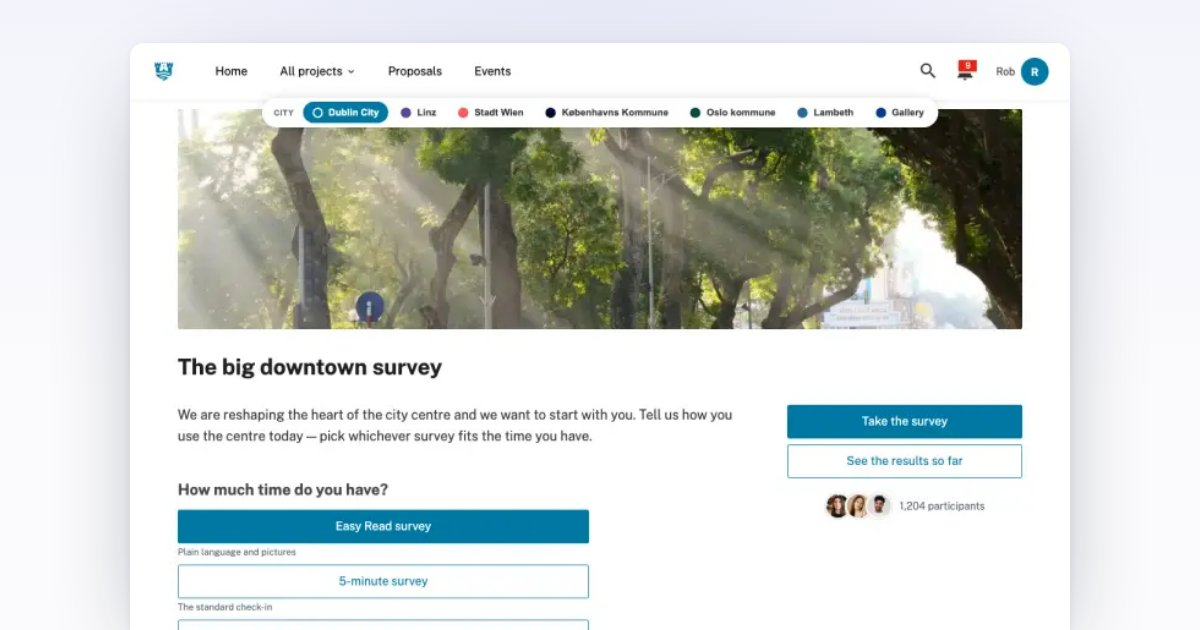
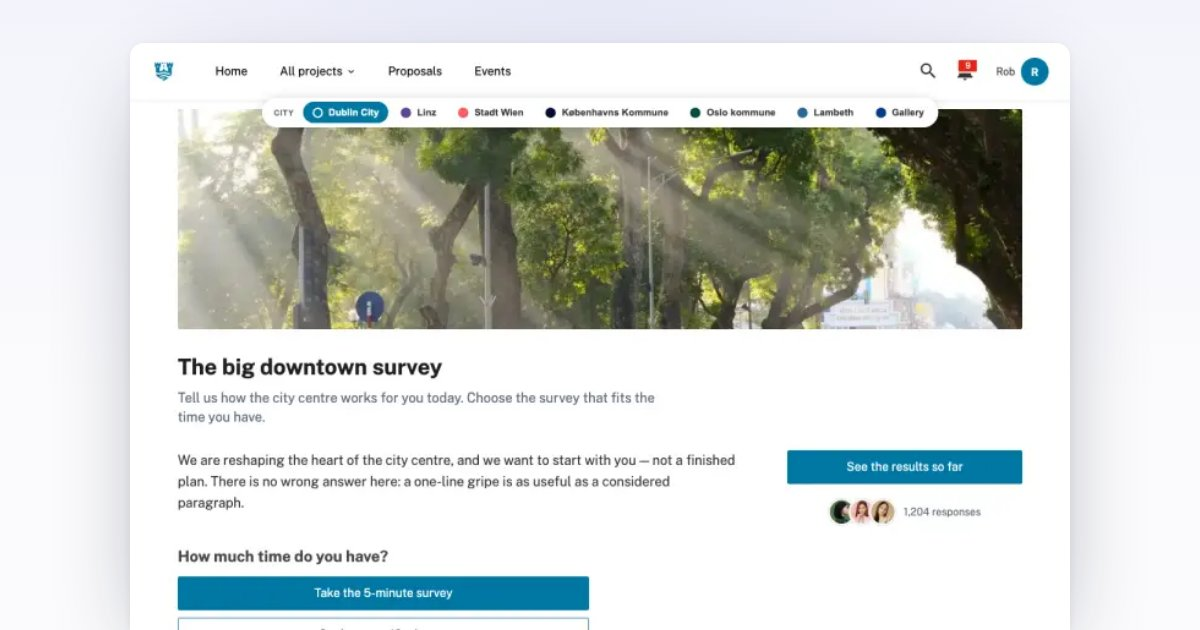
city-explorations: senior UX/content pass on the six city pages
- Remove the subtitles under Dublin's time-tier buttons; tighten the picker to
  one clear primary (Take the 5-minute survey) + Go deeper / Easy Read.
- Rebuild Oslo: lead subtitle + spacing fix so the timeline no longer collides
  with the title; drop the duplicate survey CTA so the page has one clear action;
  fix the phase body that wrongly showed "Mobility check-in" on every survey phase.
- Lambeth: fix missing gap between the survey card and the participate bar (only
  flush the partbar→phases seam, keep 32px rhythm everywhere else).
- Add a lead subtitle to every city for stronger header hierarchy.
- Rewrite intro/desc/accordion/CTA copy per city for distinct municipal voices,
  active-voice CTAs, close-the-loop framing, and no templated repetition.
- About box now honours each city's count label (responses / contributions /
  streets suggested) instead of always saying "participants".
- Add skills/participation-design (UX + content + participation-expert critique
  lens); opt-in, won't auto-load.

Changed region(s): [[0.1233, 0.6032, 0.6167, 0.9952], [0.6475, 0.6333, 0.8633, 0.8444]]

diff --git a/parallel-participation/prototypes/city-explorations/index.html b/parallel-participation/prototypes/city-explorations/index.html
@@ -46,15 +46,18 @@
     /* ── LAYOUT ENGINE — each city composes the same modules in a different order to
        showcase the Content Builder's freedom to move blocks around. A layout is an
        array of rows; a row is one full-width module or a multi-column grid. ── */
-    /* Each top-level module is its own row in the page stack; bleed bands sit flush. */
+    /* Each top-level module is its own row in the page stack. The partbar and the
+       phases band are visually one unit, so flush that seam only — every other
+       adjacency keeps the 32px rhythm (incl. a survey card sitting above the partbar). */
     .pv-page > * + * { margin-top: 32px; }
-    .pv-page > .gv-partbar, .pv-page > .gv-methodband { margin-top: 0; }
+    .pv-page > .gv-partbar + .gv-methodband { margin-top: 0; }
     .pv-block { padding: 0; }
     .pv-row2 { display: grid; grid-template-columns: minmax(0,1fr) 320px; gap: 24px 44px; align-items: start; }
     .pv-row-eq { display: grid; grid-template-columns: repeat(var(--n,2), minmax(0,1fr)); gap: 24px 44px; align-items: start; }
     .pv-col { display: flex; flex-direction: column; gap: 22px; min-width: 0; }
     .pv-aside { display: flex; flex-direction: column; gap: 18px; }
-    .pv-h1 { margin: 0 0 4px; }
+    .pv-h1 { margin: 0; }
+    .pv-sub { margin: 10px 0 0; font-size: 18px; line-height: 1.45; color: var(--gv-text-secondary); max-width: 60ch; }
     .pv-intro { margin: 0; }
     .pv-about-wide { max-width: 560px; }
     /* 3-column survey-card grid below the events calendar */
@@ -344,16 +347,16 @@
   // Reusable survey records (the Extra-surveys widget links to these).
   const SURVEYS = {
     mobility: { name: 'Mobility check-in', range: '1 – 15 Jun 2026 · Ongoing', status: 'Ongoing',
-      desc: 'A 2-minute survey on how you move around the city this month — your answers feed the mobility plan.',
+      desc: 'How do you move around the city this month? Your answers feed straight into the mobility plan.',
       cta: 'Take the survey', minutes: '2 min', questions: 8, responses: 248, closesIn: 'Closes in 5 days', progress: 64 },
     market: { name: 'Market-day satisfaction', range: '10 – 24 Jun 2026', status: 'Open',
-      desc: 'Tell us how the Saturday market works for you — stalls, space and getting there.',
+      desc: 'Tell us how the Saturday market works for you — the stalls, the space, and getting there.',
       cta: 'Share your view', minutes: '3 min', questions: 6, responses: 91, closesIn: 'Closes in 9 days', progress: 38 },
     access: { name: 'Getting around survey', range: 'Open now · No end date', status: 'Open',
-      desc: 'A few easy questions about how you travel. Your answers help us make the area work for everyone.',
+      desc: 'A few plain questions about how you travel, so the streets work better for everyone.',
       cta: 'Start the survey', minutes: '4 min', questions: 7, responses: 162, closesIn: 'Closes in 12 days', progress: 22 },
     school: { name: 'School-run safety check', range: '5 – 19 Jun 2026', status: 'Open',
-      desc: 'Help us understand the morning school journey so we can make crossings and streets safer.',
+      desc: 'Tell us about the morning journey to school, so we can make crossings and streets safer.',
       cta: 'Take the survey', minutes: '3 min', questions: 9, responses: 134, closesIn: 'Closes in 4 days', progress: 71 }
   };
 
@@ -361,21 +364,22 @@
     {
       key: 'dublin', theme: 1, city: 'Dublin City',
       title: 'The big downtown survey',
+      subtitle: 'Tell us how the city centre works for you today. Choose the survey that fits the time you have.',
       banner: 'avenue',
-      config: 'Time-tier picker · three surveys as inline single buttons',
-      intro: 'We are reshaping the heart of the city centre and we want to start with you. Tell us how you use the centre today — pick whichever survey fits the time you have.',
-      desc: '<p>Short on time? The survey comes in a few depths, plus an Easy Read version with short sentences and pictures so everyone can take part. Whichever you pick, your answers go straight to the project team and shape the proposals we bring back later in the year.</p>',
-      accordion: [['How long does it take?', 'Anything from a minute to ten — pick the depth that suits you. You can skip any question and come back later; your answers save as you go.'], ['What happens to my answers?', 'They are anonymised and grouped into themes. We publish the headline findings before the next phase opens.']],
+      config: 'Time-tier picker · one survey offered at three depths as inline buttons',
+      intro: 'We are reshaping the heart of the city centre, and we want to start with you — not a finished plan. There is no wrong answer here: a one-line gripe is as useful as a considered paragraph.',
+      desc: '<p>Whichever depth you pick, every answer is read and grouped into themes by the project team. We publish the headline findings here before the next phase opens, so you can see how what you said shaped the proposals.</p>',
+      accordion: [['Can I change my answers?', 'Yes. Your answers save as you go and you can come back to finish or edit until the survey closes on 30 June.'], ['What happens to my answers?', 'They are anonymised and grouped into themes. We publish the headline findings here before the proposals phase opens.']],
       phases: [
         { name: 'City-centre survey', method: 'survey', dates: 'Jun 1 – Jun 30, 2026', status: 'current', description: 'The opening phase: a short survey on how the centre works for you today.' },
         { name: 'What we heard', method: 'information', dates: 'Jul 1 – Jul 14, 2026', status: 'upcoming', description: 'We share back the themes from your answers and what they mean for the plan.' },
         { name: 'Shape the proposals', method: 'ideation', dates: 'Jul 15 – Aug 15, 2026', status: 'upcoming', description: 'Add and react to ideas for the changes you want to see in the centre.' }
       ],
-      about: { mode: 'single', primary: 'Take the survey', secondary: 'See the results so far', participants: true, count: '1,204', label: 'responses' },
+      about: { mode: 'single', primary: 'See the results so far', secondary: null, participants: true, count: '1,204', label: 'responses' },
       surveys: { layout: 'buttons', heading: 'How much time do you have?', buttons: [
-        { label: 'Easy Read survey', style: 'primary', note: 'Plain language and pictures' },
-        { label: '5-minute survey', style: 'secondary', note: 'The standard check-in' },
-        { label: '10-minute deep dive', style: 'secondary', note: 'For the full picture' }
+        { label: 'Take the 5-minute survey', style: 'primary' },
+        { label: 'Go deeper — 10 minutes', style: 'secondary' },
+        { label: 'Easy Read version', style: 'secondary' }
       ] },
       layout: ['banner', 'title', { row: [['intro', 'surveys', 'desc'], ['about']], tpl: 'main-aside' }, 'partbar', 'timeline', 'events'],
       events: [['Jun', '18', 'Drop-in: help with the survey', '18 Jun · 17:30 – 19:00', 'Central Library', '26', 'oldtown']]
@@ -383,29 +387,31 @@
     {
       key: 'linz', theme: 0, city: 'Linz',
       title: 'Reimagine the riverside',
+      subtitle: 'The old industrial riverfront is coming back to the city. Help decide what goes there.',
       banner: 'park-people',
-      config: 'Events module placed above the timeline · easy-read survey card',
-      intro: 'Help shape how we use the riverside over the next few years. We are collecting ideas right now — add yours below, then back the ones you like best.',
-      desc: '<p>The team reads every suggestion, groups similar ones, and the most-supported move to a community vote and into the final plan. Come and talk it through in person too — the meet-ups below run while the ideas phase is open.</p>',
-      accordion: [['How will my idea be used?', 'Every idea is read by the project team and grouped with similar suggestions. The most-supported ones move to the next phase.'], ['Who is running this project?', 'The City of Linz engagement team, together with the parks and mobility departments.']],
+      config: 'Events module lifted above the timeline · ideation feed + parallel survey',
+      intro: 'Nothing is drawn up yet — this is the ideas phase, and the widest range of voices now makes for a stronger shortlist later. Add your own idea, or back the ones your neighbours have already posted.',
+      desc: '<p>Every suggestion is read and grouped by theme; the most-supported move to a community vote and into the final plan. Prefer to talk it through in person? Come to one of the riverside meet-ups below — they run while the ideas phase is open.</p>',
+      accordion: [['How will my idea be used?', 'Every idea is read by the project team and grouped with similar ones. The most-supported move to the community vote in July.'], ['Who is running this project?', 'The City of Linz engagement team, with the parks and mobility departments.']],
       phases: [
         { name: 'Share your ideas', method: 'ideation', dates: 'May 20 – Jun 30, 2026', status: 'current', description: 'Residents share ideas for the riverside and react to each other’s suggestions.' },
         { name: 'Consolidation', method: 'information', dates: 'Jul 1 – Jul 14, 2026', status: 'upcoming', description: 'We group similar ideas and share how the shortlist was put together.' },
         { name: 'Community vote', method: 'voting', dates: 'Jul 15 – Aug 5, 2026', status: 'upcoming', description: 'Residents prioritise the shortlisted ideas with a budget of points.' }
       ],
-      about: { mode: 'dual', primary: 'Submit your idea', secondary: 'See the ideas', participants: true, count: '342', label: 'contributions' },
-      surveys: { layout: 'one', format: 'card', variant: 'easy', style: 'secondary', survey: 'mobility', heading: 'One more way to take part' },
+      about: { mode: 'dual', primary: 'Add your idea', secondary: 'See the 342 ideas', participants: true, count: '342', label: 'contributions' },
+      surveys: { layout: 'one', format: 'card', variant: 'easy', style: 'secondary', survey: 'mobility', heading: 'Rather answer a few questions?' },
       layout: ['banner', 'title', { row: [['intro', 'desc', 'surveys'], ['about']], tpl: 'main-aside' }, 'events', 'partbar', 'timeline'],
       events: [['Jun', '14', 'Riverside ideas walk', '14 Jun · 10:00 – 11:30', 'Donaupark', '41', 'workshop'], ['Jul', '02', 'Design workshop', '2 Jul · 18:00 – 20:00', 'Civic Hall', '57', 'community']]
     },
     {
       key: 'wien', theme: 2, city: 'Stadt Wien',
       title: 'Participatory budget 2026',
+      subtitle: '€500,000 for the district — and you decide where it goes. Three ways to take part are open at once.',
       banner: 'square',
-      config: 'Omnibox · 3 methods collapse to one button → opens a modal / bottom sheet',
-      intro: 'You decide where part of the district budget goes this year. Three ways to take part are open at once — vote on the shortlist, add a late idea, or have your say in the budget survey.',
-      desc: '<p>When more than two ways to participate are open together, the About box collapses them into a single clear call to action. Tapping it opens a modal — a bottom sheet on mobile — with each method as its own button.</p>',
-      accordion: [['How does the vote work?', 'You get a set of points to spread across the projects you most want funded. You can change your vote until the phase closes.'], ['How much is the budget?', '€500,000 for the district this year, split across the projects that get the most support.']],
+      config: 'Omnibox · three open methods collapse to one button → modal / bottom sheet',
+      intro: 'The shortlist was built from the proposals residents submitted this spring. Voting is the main event now, but ideas and the budget survey stay open alongside it — take part however suits you.',
+      desc: '<p>With three methods running together, listing every button would crowd the page, so the participation box collapses them behind one clear action. Tapping it opens a modal — a bottom sheet on mobile — with each way to take part as its own button.</p>',
+      accordion: [['How does the vote work?', 'You get points to spread across the projects you most want funded. You can change your vote until voting closes on 30 June.'], ['What if my idea did not make the shortlist?', 'You can still add a late idea — the team reviews them for the next budget round and replies in the project updates.']],
       phases: [
         { name: 'Collect proposals', method: 'ideation', dates: 'Mar 1 – May 1, 2026', status: 'past', description: 'Residents submitted projects for the district budget.' },
         { name: 'Vote on the shortlist', method: 'voting', dates: 'Jun 1 – Jun 30, 2026', status: 'current', description: 'Spend your points across the shortlisted projects for the district.' },
@@ -423,11 +429,12 @@
     {
       key: 'copenhagen', theme: 3, city: 'Københavns Kommune',
       title: 'What we heard: the city centre',
+      subtitle: '517 ideas, grouped into eight themes. Here is what you told us — and what happens next.',
       banner: 'oldtown',
-      config: 'Three-column survey-card row below the events calendar',
-      intro: 'Thank you to everyone who shared an idea. This phase shares back what we heard and how the ideas were grouped — and opens a few short follow-up surveys.',
-      desc: '<p>During consolidation we read every contribution, removed duplicates, and grouped the remaining ideas into themes. Below is how the process worked, when we are meeting in person, and the short surveys that are still open.</p>',
-      accordion: [['How were ideas grouped?', 'Ideas were clustered by theme and by where in the centre they sit. Near-identical ideas were merged, keeping the original authors credited.'], ['When can I vote?', 'Prioritisation opens next month. Followers of this project get a notification when voting starts.']],
+      config: 'Closing-the-loop page · three follow-up surveys below the events calendar',
+      intro: 'Thank you to everyone who took part. This is the part too many consultations skip: showing you what we did with what you said, before anyone decides anything.',
+      desc: '<p>We read every contribution, merged the near-identical ones — authors still credited — and clustered the rest into themes. Below is how that worked, where to meet the team in person, and the short follow-up surveys that are still open.</p>',
+      accordion: [['How were ideas grouped?', 'By theme, and by where in the centre they sit. Near-identical ideas were merged, keeping the original authors credited.'], ['When can I vote?', 'Prioritisation opens in July. Follow the project and you will get a notification the day voting starts.']],
       phases: [
         { name: 'Share your ideas', method: 'ideation', dates: 'Apr 1 – May 20, 2026', status: 'past', description: 'Residents shared ideas for the city centre.' },
         { name: 'What we heard', method: 'information', dates: 'Jun 1 – Jun 21, 2026', status: 'current', description: 'We share back the themes from your ideas and how the shortlist was built.' },
@@ -442,34 +449,36 @@
     {
       key: 'oslo', theme: 5, city: 'Oslo kommune',
       title: 'A safer school run',
+      subtitle: 'Written in plain words, with big text and one clear button — so every family can take part.',
       banner: 'street-trees',
-      config: 'Reordered page · timeline under the title, About box above the description',
-      intro: 'We want every child to get to school safely. This survey is written in plain words, with big text and one clear button — so everyone can take part.',
-      desc: '<p>Tell us about the morning journey to school: where it feels safe, where it does not, and what would help. Your answers shape crossings, speeds and the streets around our schools.</p>',
-      accordion: [['Who can answer?', 'Anyone who walks, cycles or drives the school run — parents, carers, children and neighbours.'], ['Do I need an account?', 'No. You can answer the survey without signing in. Signing in lets you follow the project for updates.']],
+      config: 'Reordered, accessible page · timeline under the title, single clear action',
+      intro: 'Tell us about the morning journey to school: where it feels safe, where it does not, and the one change that would help most. It takes a few minutes and you do not need an account.',
+      desc: '<p>Your answers go straight to the traffic and schools team and shape real decisions — where crossings go, how fast traffic moves, and which streets get calmed first. We share back what we heard in July, before anything is decided.</p>',
+      accordion: [['Who can answer?', 'Anyone who knows the school run — parents, carers, children, teachers and neighbours. Walk it, cycle it or drive it: we want to hear from you.'], ['Do I need an account?', 'No. You can answer without signing in. Signing in just lets you follow the project for updates.']],
       phases: [
         { name: 'School-run survey', method: 'survey', dates: 'Jun 5 – Jun 26, 2026', status: 'current', description: 'A short, plain-language survey about the morning journey to school.' },
         { name: 'What we heard', method: 'information', dates: 'Jul 1 – Jul 14, 2026', status: 'upcoming', description: 'We share back what we learned and the changes we are considering.' }
       ],
       about: { mode: 'single', primary: 'Take the survey', secondary: null, participants: true, count: '286', label: 'responses' },
-      surveys: { layout: 'one', format: 'card', variant: 'easy', style: 'primary', survey: 'school', heading: 'The survey, in plain words' },
-      layout: ['banner', 'title', 'timeline', 'about', 'intro', 'desc', 'surveys', 'events'],
+      surveys: { layout: 'none' },
+      layout: ['banner', 'title', 'timeline', 'about', 'intro', 'desc', 'events'],
       events: [['Jun', '11', 'School-gate listening session', '11 Jun · 08:15 – 09:15', 'Skole gate', '19', 'community']]
     },
     {
       key: 'lambeth', theme: 6, city: 'Lambeth',
       title: 'Quiet streets pilot',
+      subtitle: 'One question, one action: where would calmer streets make the biggest difference?',
       banner: 'harbour',
-      config: 'Action-first minimal page · About box on top, then text and one survey',
-      intro: 'We are trialling quieter, calmer streets in the neighbourhood. Add your idea for where it would make the biggest difference.',
-      desc: '<p>This is a light-touch project page: the action sits right at the top, with a short explanation and a single easy-read survey below — for when the page should stay quiet and the next step is obvious.</p>',
-      accordion: [['What is a quiet street?', 'A street where through-traffic is reduced so it is calmer and safer for people walking, cycling and playing.']],
+      config: 'Action-first minimal page · the action leads, everything else stays quiet',
+      intro: 'We are trialling quieter, calmer streets — less through-traffic, more room to walk, cycle and play. Tell us the street you would start with.',
+      desc: '<p>This is a deliberately light page: the action comes first, with a short explanation underneath. The most-supported streets go into the trial this summer, and we report back on what actually changed.</p>',
+      accordion: [['What is a quiet street?', 'A street where through-traffic is reduced, so it is calmer and safer for people walking, cycling and playing — local access stays.']],
       phases: [
         { name: 'Suggest a street', method: 'ideation', dates: 'Jun 1 – Jul 1, 2026', status: 'current', description: 'Add the street where a quiet-streets trial would make the biggest difference.' },
         { name: 'Trial', method: 'information', dates: 'Aug 2026', status: 'upcoming', description: 'We trial the most-supported streets and report back on what changed.' }
       ],
-      about: { mode: 'single', primary: 'Suggest a street', secondary: null, participants: false },
-      surveys: { layout: 'one', format: 'card', variant: 'easy', style: 'secondary', survey: 'access', heading: 'Or take the quick survey' },
+      about: { mode: 'single', primary: 'Suggest a street', secondary: null, participants: true, count: '128', label: 'streets suggested' },
+      surveys: { layout: 'one', format: 'card', variant: 'easy', style: 'secondary', survey: 'access', heading: 'Prefer a few questions instead?' },
       layout: ['banner', 'title', 'about', 'intro', 'desc', 'surveys', 'partbar', 'timeline'],
       events: []
     },
@@ -503,7 +512,7 @@
       if (a.secondary) actions += `<a class="gv-btn full primary-outlined" href="#"><span class="gv-btn__label">${a.secondary}</span></a>`;
     }
     const people = a.participants
-      ? `<div class="gv-participants pv-pbox__people"><span class="gv-avatars on-light" aria-hidden="true"><span class="av"></span><span class="av"></span><span class="av"></span></span><span class="gv-pcount">${a.count} participants</span></div>`
+      ? `<div class="gv-participants pv-pbox__people"><span class="gv-avatars on-light" aria-hidden="true"><span class="av"></span><span class="av"></span><span class="av"></span></span><span class="gv-pcount">${a.count} ${a.label || 'participants'}</span></div>`
       : '';
     let inner = (actions ? `<div class="pv-pbox__actions">${actions}</div>` : '') + people;
     if (!inner) inner = '<div class="pv-pbox__empty">No active methods</div>';
@@ -596,8 +605,8 @@
             <button class="gv-feedfilter__btn" type="button">Accepted <span class="gv-feedfilter__count">18</span></button></div></div>
         </aside></div>`;
     },
-    survey() {
-      return `<div class="pv-survintro"><h3 class="gv-title h3">${SURVEYS.mobility.name}</h3><p>${SURVEYS.mobility.questions} questions · about ${SURVEYS.mobility.minutes} to complete. Your answers are saved as you go and you can finish later.</p><a class="gv-btn primary" href="#"><span class="gv-btn__label">Start the survey</span></a></div>`;
+    survey(p) {
+      return `<div class="pv-survintro"><h3 class="gv-title h3">${p.name}</h3><p>${p.description} Your answers are saved as you go, so you can stop and finish later.</p><a class="gv-btn primary" href="#"><span class="gv-btn__label">Start the survey</span></a></div>`;
     },
     information() {
       const acc = (q, p) => `<details class="gv-acc__item"><summary class="gv-acc__head"><span class="gv-acc__q">${q}</span><span class="gv-acc__chev" data-gv-icon="chevron-right"></span></summary><div class="gv-acc__body"><p>${p}</p></div></details>`;
@@ -641,7 +650,7 @@
     // Module content renderers (return inner HTML; no full-width wrapper).
     const M = {
       banner: () => `<section class="pp-banner" aria-label="Project banner"><img src="assets/img/westmere/${v.banner}.webp" alt="" loading="lazy" /></section>`,
-      title: () => `<h1 class="gv-title h1 pv-h1">${v.title}</h1>`,
+      title: () => `<h1 class="gv-title h1 pv-h1">${v.title}</h1>${v.subtitle ? `<p class="pv-sub">${v.subtitle}</p>` : ''}`,
       intro: () => `<div class="gv-projdesc pv-intro"><p>${v.intro}</p></div>`,
       desc: () => `<div class="gv-projdesc">${v.desc || ''}${acc ? `<div class="gv-accordion" style="margin-top:20px">${acc}</div>` : ''}</div>`,
       about: () => `<div class="pv-aside pv-about-wide">${aboutBoxHTML(v.about)}</div>`,

diff --git a/skills/participation-design/SKILL.md b/skills/participation-design/SKILL.md
@@ -1,0 +1,74 @@
+---
+name: participation-design
+description: Critique and shape resident-facing participation pages (project pages, About/Participation box, surveys, phases, events) the way a senior digital-democracy practitioner would — for conversion, trust, and inclusion. Pull when designing or hard-critiquing a front-office participation flow, choosing CTAs/copy, or deciding what goes where on a project page.
+---
+
+# Participation design
+
+Wear three hats at once: **UX/UI designer**, **content strategist**, and **participation
+expert** (digital democracy / community engagement, the GoVocal/CitizenLab world). The goal
+of a participation page is not "look nice" — it is to get a real resident to take one real
+action, trust that it matters, and come back. Critique against that, hard.
+
+## The non-negotiables
+
+1. **One obvious next step per page.** A resident should never have to choose between
+   competing primary CTAs. Pick the single critical method for this phase; make it the one
+   filled button. Everything else is secondary (outlined) or quieter. Two participation
+   widgets both shouting "Take the survey" is a bug, not redundancy you can ignore.
+2. **The Participation/About box is the conversion point.** It answers: what's open, how
+   many people already took part (social proof), and the one thing to do now. If the page's
+   action lives elsewhere (an inline picker, a vote in the timeline), the box should carry
+   *social proof + a glance at results/transparency*, not a duplicate of that action.
+3. **Phases = transparency = trust.** The timeline shows where we are in the process and
+   what's next. Highlight the current phase. People participate more when they can see the
+   process is real and their input has a destination.
+4. **Close the loop, visibly.** "What we heard" / "what happens with your answers" is the
+   highest-trust content a platform has and the most-skipped. A page that only *collects*
+   reads as extractive. Show the return path even while a method is still open.
+5. **Inclusion is a feature, not a footnote.** Easy Read (plain words, big type, one
+   high-contrast button), no-account participation, and an in-person/offline path (events)
+   are how you reach beyond the already-engaged. Don't bury them; don't make them look lesser.
+
+## Choice & cognitive load
+
+- **Choice overload kills participation.** More than a handful of options collapses people
+  into inaction. If a phase genuinely has many parallel methods, *collapse* them (one
+  "Participate · N ways" button → modal/sheet) rather than listing them all inline.
+- **Tier by effort when you do offer choice** ("5 minutes / 10 minutes / Easy Read"), and
+  still mark one as the default path. Self-selection by time is good; a wall of equal buttons
+  is not.
+- **Match the widget to the lifecycle stage:** gathering (ideation feed, open CTA) →
+  deciding (vote, prioritisation) → closing (results, what-we-heard, follow-up survey).
+
+## Copy (content-strategist hat)
+
+- **CTAs are verbs naming the outcome:** "Cast your vote", "Add your idea", "Take the
+  5-minute survey" — never "Submit" or "Click here". The action keeps its name across the
+  whole flow (button "Publish" → toast "Published").
+- **Write from the resident's side.** "Streets suggested", not "inputs". Name things by what
+  people recognise, not how the backend models them. Don't claim a duration or count the
+  product can't actually show.
+- **Sentence case, active voice, specific over clever.** Each line does one job: a subtitle
+  frames, an intro motivates, the box converts. Kill duplicated phrasing across pages — a
+  set of pages that all say "your answers go straight to the team" reads as templated.
+- **Distinct municipal voices.** A budget vote, an accessibility survey, and a light pilot
+  should not sound like the same author.
+
+## When critiquing, ask
+
+- What is the *one* action here, and is it unmistakably the loudest thing?
+- Does the box prove other people are doing this? Does it show where input goes?
+- Can someone who has 30 seconds, no account, or who needs Easy Read still take part?
+- Is the offline/in-person path visible to people who won't act online?
+- Does every CTA say what happens, in the resident's words, consistently?
+- If you're building several pages to show range: is each one a *genuinely different*
+  scenario (stage, method, tone, arrangement) — or the same page reskinned?
+
+## Caveat
+
+These are heuristics, not a rubric to apply mechanically. The product truth lives in
+`GOVOCAL.md` (the Folder→Project→Phase→method spine, the 8 methods, roles, vocabulary) and
+in real captures — verify specifics there rather than inventing them. Pair with
+`govocal-a11y` for measured accessibility and `govocal-persona-critique` for in-character
+walkthroughs.
